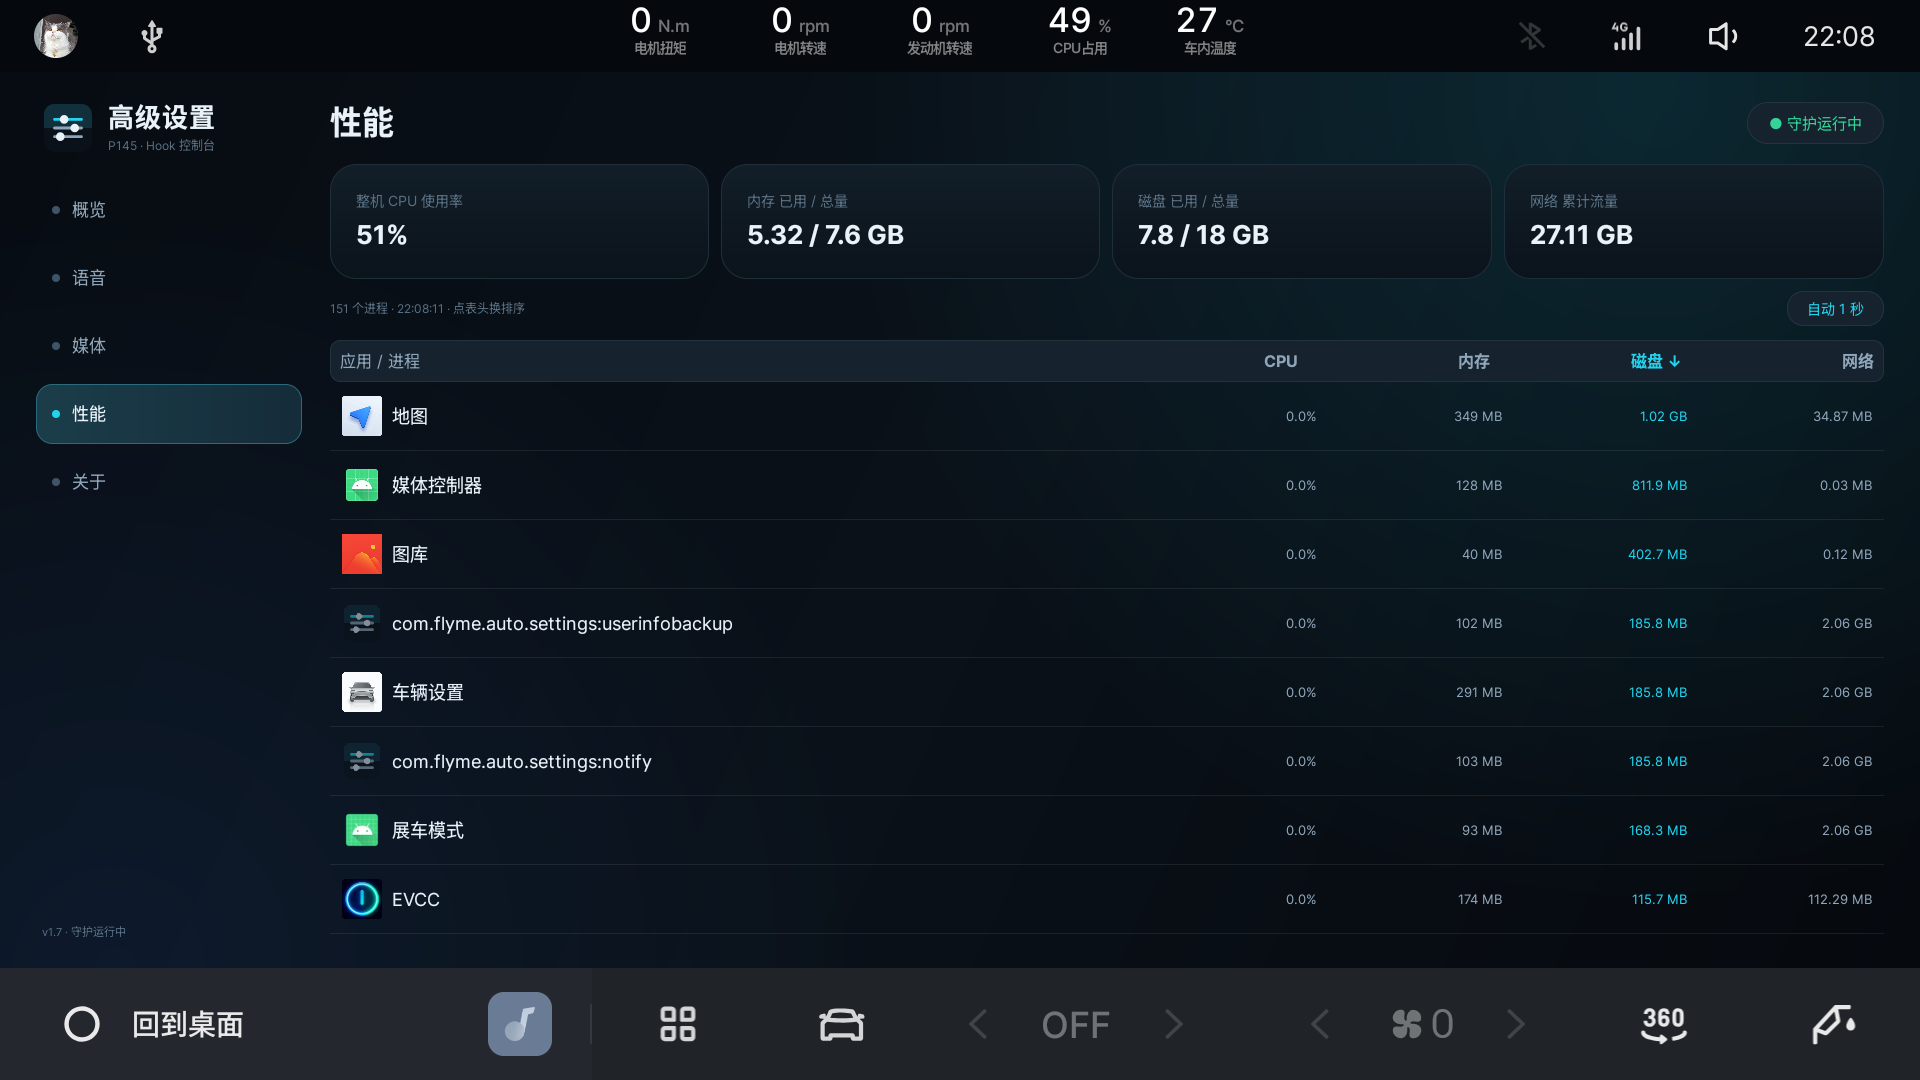
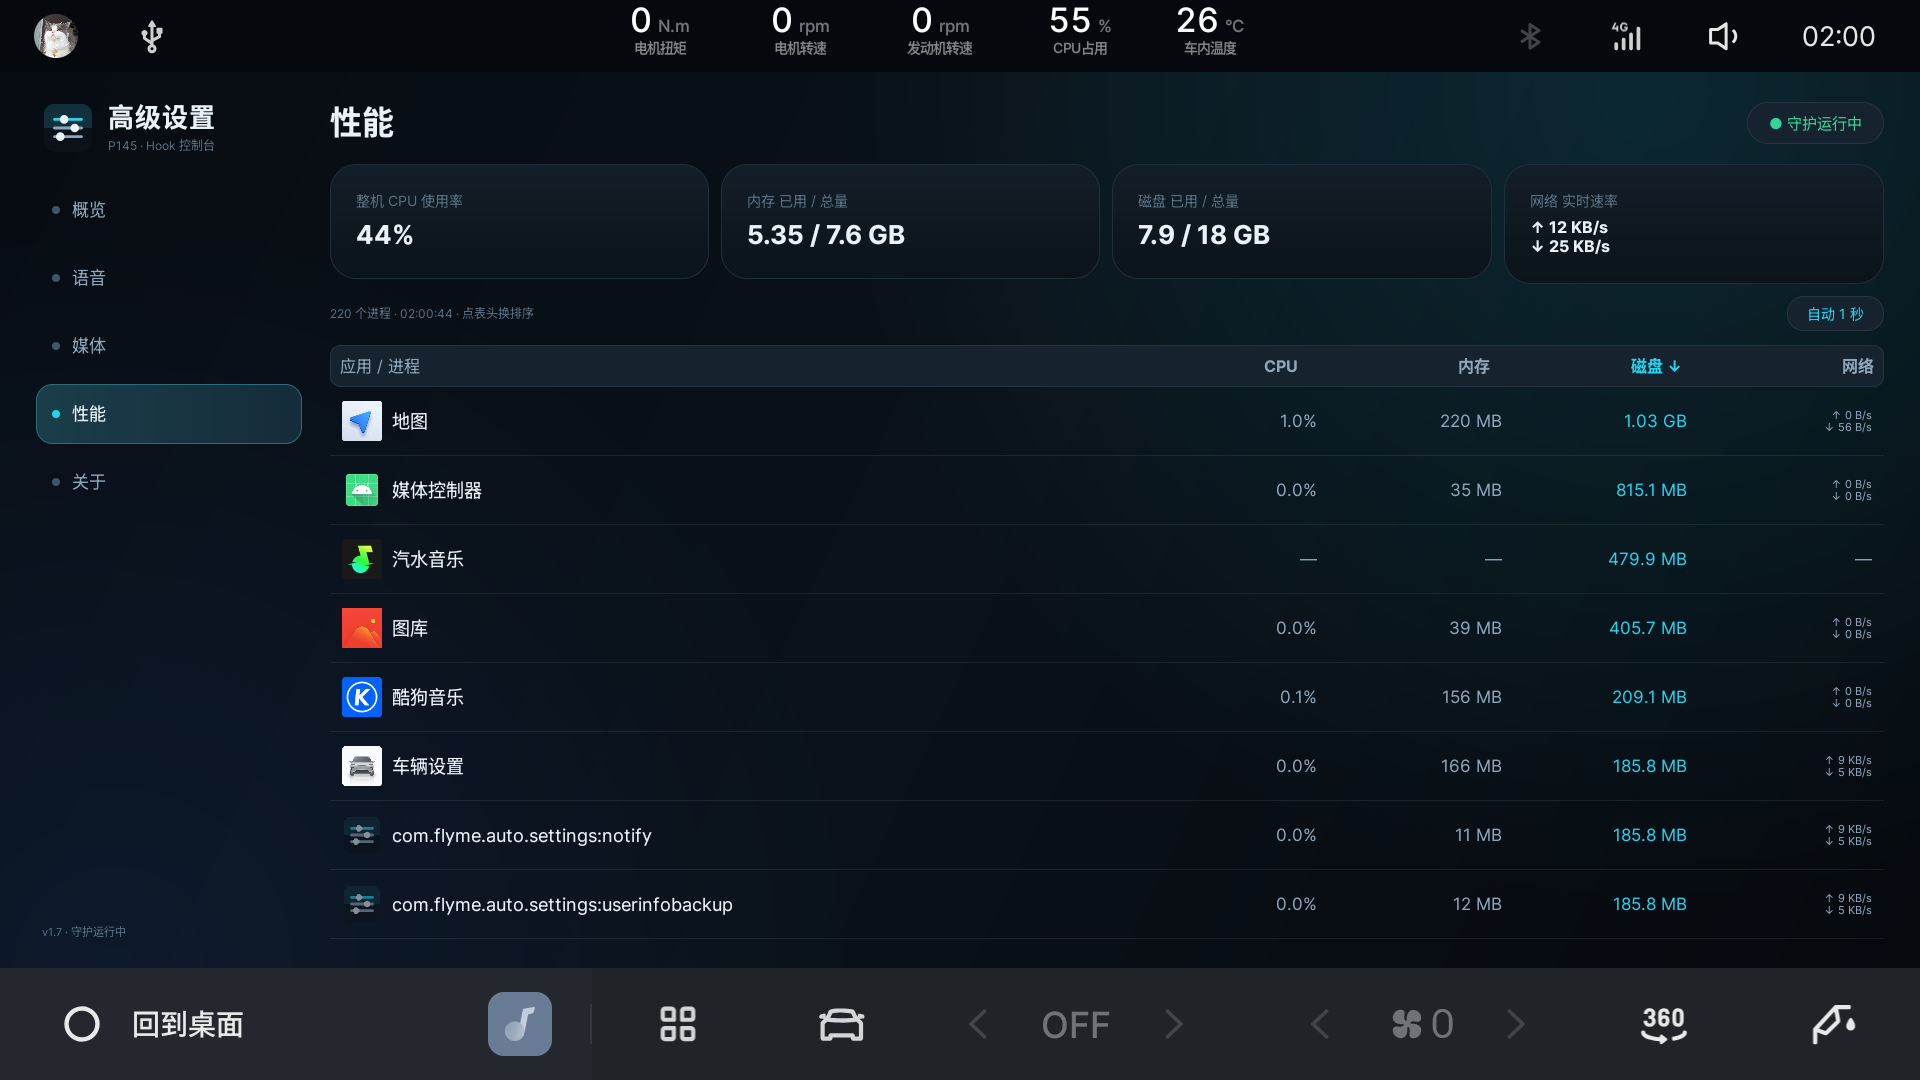
fix(perf): 列表并入已安装但未运行的应用，磁盘排行不再漏掉音乐软件
原来列表只来自运行中的进程，酷狗/酷我/汽水音乐后台没跑就完全看不到，
但它们的存储占用并不小（汽水音乐 434MB、酷狗 212MB）。

parse 末尾把 S/D 段里出现、但进程表里没有的包补成 pid=0 的条目，
display 对 pid==0 且非磁盘维度显示 —。条目数 148 → 220。

diff --git a/src/com/p145/advancedsettings/core/PerfMonitor.java b/src/com/p145/advancedsettings/core/PerfMonitor.java
@@ -68,6 +68,9 @@ public final class PerfMonitor {
         }
 
         public String display(Dim d) {
+            if (pid == 0 && d != Dim.DISK) {
+                return "—";      // 已安装但未运行
+            }
             switch (d) {
                 case CPU:
                     return String.format("%.1f%%", cpu);
@@ -332,6 +335,37 @@ public final class PerfMonitor {
             u.name = simplifyName(u.name);
             snap.apps.add(u);
         }
+        // 把「已安装但当前没运行」的应用也并进来（只有磁盘占用，其他维度显示 —）
+        java.util.Set<String> withProc = new java.util.HashSet<>();
+        for (AppUsage u : map.values()) {
+            String k = u.name;
+            int c = k.indexOf(':');
+            if (c > 0) {
+                k = k.substring(0, c);
+            }
+            withProc.add(k);
+        }
+        java.util.Set<String> allPkgs = new java.util.HashSet<>();
+        allPkgs.addAll(apkBytes.keySet());
+        allPkgs.addAll(dataKb.keySet());
+        for (String pkg : allPkgs) {
+            if (withProc.contains(pkg)) {
+                continue;
+            }
+            Long apk2 = apkBytes.get(pkg);
+            Long dk2 = dataKb.get(pkg);
+            double disk = (apk2 == null ? 0 : apk2) / 1048576.0 + (dk2 == null ? 0 : dk2) / 1024.0;
+            if (disk <= 0) {
+                continue;
+            }
+            AppUsage u2 = new AppUsage();
+            u2.pid = 0;
+            u2.uid = -1;
+            u2.name = pkg;
+            u2.diskMb = disk;
+            snap.apps.add(u2);
+        }
+
         snap.processCount = snap.apps.size();
         if (snap.apps.isEmpty()) {
             snap.error = "未采集到进程数据";

diff --git a/docs/P145车机改造记录.md b/docs/P145车机改造记录.md
@@ -1899,3 +1899,34 @@ du -s -k /data/data/* | while read kb path; do echo "D ${path##*/} $kb"; done
 如果以后觉得太跳，可以加个 EMA（`显示 = 旧×0.6 + 新×0.4`）。
 
 **注意**：网络按 uid 统计，同 uid 的多个进程（如 `com.flyme.auto.settings` 和它的 `:notify`）会显示相同速率。
+
+### 17.12 列表并入「已安装但未运行」的应用
+
+**现象**（2026-11-15 用户反馈）：按磁盘排序看不到酷狗/酷我/汽水音乐，只有系统应用。
+
+**原因**：列表的数据源是 **运行中的进程**（`ps -A` + `/proc/*/stat`），
+而那几款音乐 App 当时**全都没在跑**（`pidof` 全空），自然不会出现。
+但它们的存储占用很大：汽水音乐数据 434 MB、酷狗 APK 79 MB + 数据 133 MB。
+
+**改法**：`PerfMonitor.parse` 末尾把 `S`（APK）/`D`（数据目录）里出现、
+但在进程表里找不到的包，补成一条 `pid=0` 的条目：
+
+```java
+AppUsage u2 = new AppUsage();
+u2.pid = 0; u2.uid = -1; u2.name = pkg;
+u2.diskMb = apkBytes + dataKb;
+snap.apps.add(u2);
+```
+
+`display()` 里加一条：`pid == 0 && d != DISK → "—"`，
+这样未运行的应用只有磁盘列有值，CPU/内存/网络显示 `—`，一眼能分辨。
+
+**效果**：条目从 148（纯进程）变成 220（进程 ∪ 已安装应用），
+按磁盘排序立刻能看到：地图 1.03 GB、媒体控制器 815 MB、**汽水音乐 479.9 MB**、
+图库 405.7 MB、**酷狗音乐 209.1 MB**、车辆设置 185.8 MB…
+
+**顺序含义**：按 CPU/内存/网络排序时这些未运行应用值为 0，会排在最后（不影响原有排行）；
+只有按磁盘排序时它们才会混进来 —— 这也符合直觉：存储占用与进程是否运行无关。
+
+**顺带记一个操作坑**：表头点击区域是 `[1490,354][1682,378]`（磁盘），
+点 y=349 会落在表头外，所以"点了没反应"多半是没点准。
